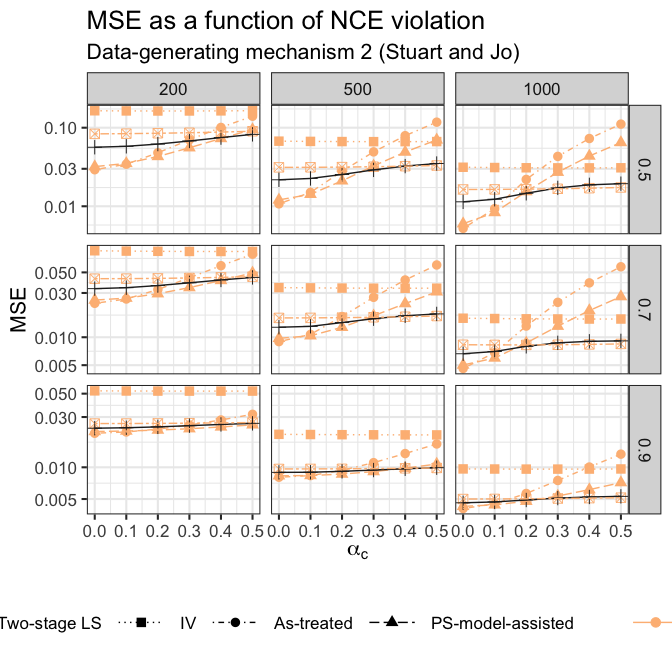
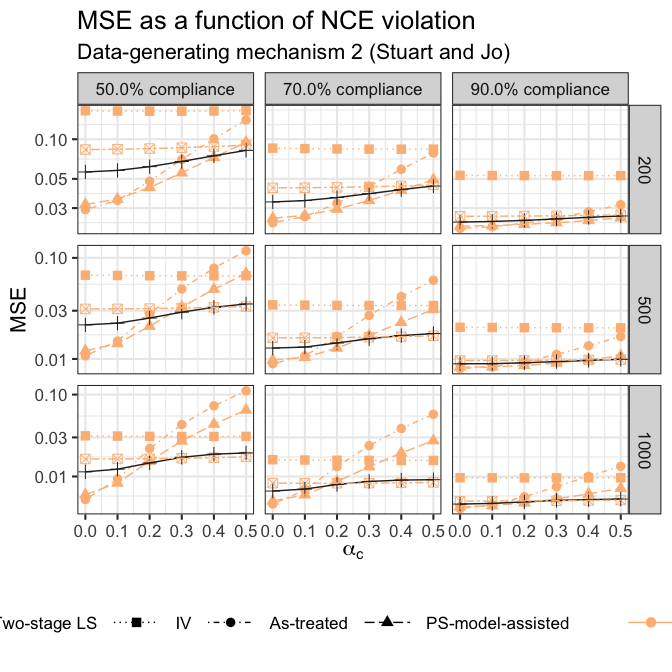
Switch facet grid axes.

diff --git a/R/08_main-sim-plots.md b/R/08_main-sim-plots.md
@@ -32,7 +32,8 @@ res <- sim_res %>%
          sample != 'CV') %>%
   mutate(name = 
            case_when(synthetic ~ 'SCE',
-                     TRUE ~ theta_0))
+                     TRUE ~ theta_0),
+         compliance_p = glue('{scales::percent(compliance_p)} compliance'))
 ```
 
 ``` r
@@ -87,7 +88,7 @@ mse_pl <- ggplot(res,
                                   'IV',
                                   'As-treated', 
                                   'PS-model-assisted')) +
-  facet_grid(compliance_p ~ n, scales = 'free') +
+  facet_grid(n ~ compliance_p, scales = 'free') +
   scale_color_manual('',
                      breaks = c(FALSE, TRUE),
                      labels = c('Candidate', 'Synthetic'),
